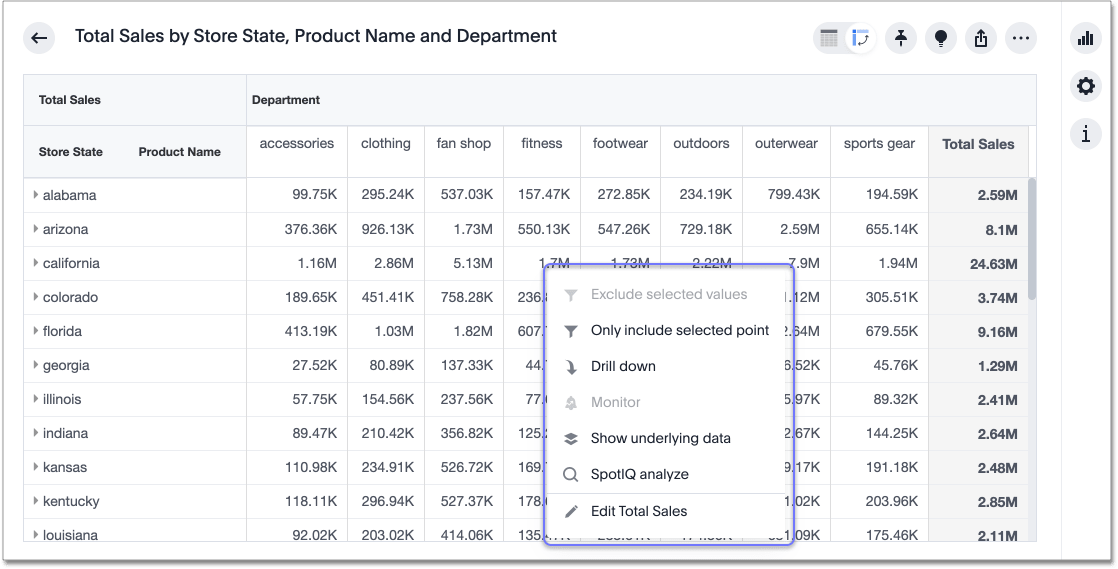
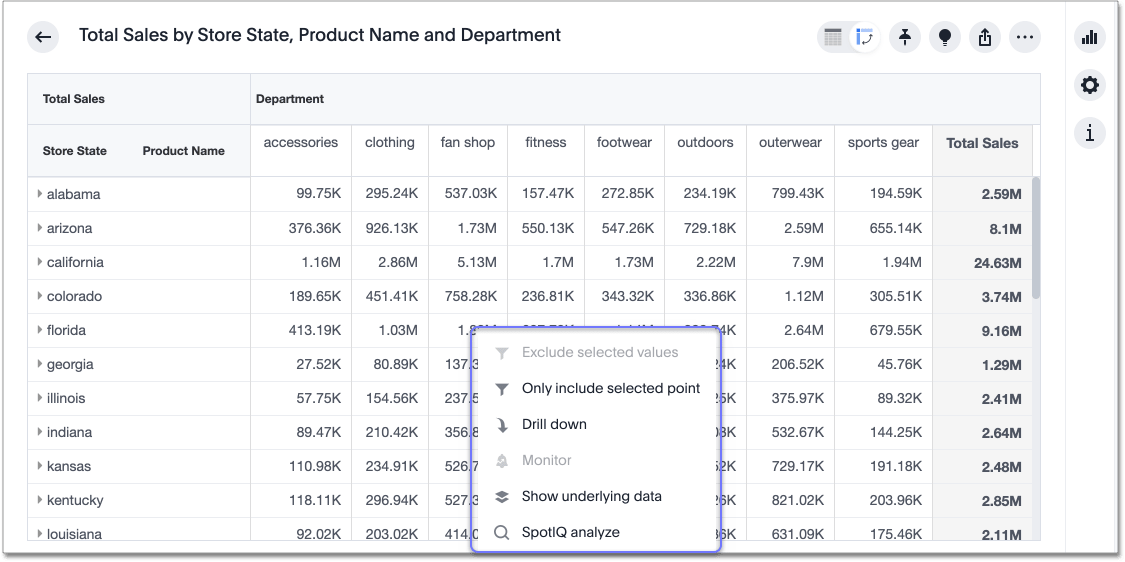
SCAL-85549 review by arpit

diff --git a/_complex-search/about-pivoting-a-table.md b/_complex-search/about-pivoting-a-table.md
@@ -1,6 +1,6 @@
 ---
 title: [Pivot table]
-last_updated: 5/20/2021
+last_updated: 5/21/2021
 summary: "A pivot table is a chart type."
 sidebar: mydoc_sidebar
 permalink: /:collection/:path.html
@@ -17,7 +17,7 @@ If you right-click a row or column heading, the system displays a contextual men
 
 ![Sort by a row heading]({{ site.baseurl }}/images/charts-pivot-table-sort.png "Sort by a row heading")
 
-If you right-click a table cell, the system displays a contextual menu, allowing you to **exclude** or **include** values, [drill down]({{ site.baseurl }}/complex-search/drill-down.html), **show underlying data**, **SpotIQ analyze**, or **edit** the measure column. When you click **Edit [measure column]**, the **Edit** menu for the column opens, allowing you to edit the number and conditional formatting.
+If you right-click a table cell, the system displays a contextual menu, allowing you to **exclude** or **include** values, [drill down]({{ site.baseurl }}/complex-search/drill-down.html), **show underlying data**, or **SpotIQ analyze**.
 
 ![Pivot table cell menu]({{ site.baseurl }}/images/charts-pivot-table-cell-new.png "Pivot table cell menu")
 
@@ -64,7 +64,7 @@ others within the table.
 To turn on the heatmap, click the **edit chart configuration** ![]({{ site.baseurl }}/images/icon-gear-10px.png){: .inline} icon, and click **settings** at the bottom of the chart configuration panel. Select **heatmap mode**.
 
 ## Number and conditional formatting
-You can perform conditional and number formatting on pivot tables. Both these features work the same way they work for regular ThoughtSpot tables. Select **Edit chart configuration** ![chart config icon]({{ site.basuerl }}/images/icon-gear-10px.png "chart config icon"){: .inline}, and click on the attribute measure you would like to add number or conditional formatting to. Note that attributes only support conditional formatting, not number formatting. Refer to [Apply conditional formatting]({{ site.baseurl }}/end-user/search/apply-conditional-formatting.html#table) and [Number formatting]({{ site.baseurl }}/end-user/search/about-tables.html#number-formatting) for more information.
+You can perform conditional and number formatting on pivot tables. Both these features work the same way they work for regular ThoughtSpot tables. Select **Edit chart configuration** ![chart config icon]({{ site.basuerl }}/images/icon-gear-10px.png "chart config icon"){: .inline}, and click on the measure you would like to add number or conditional formatting to. Refer to [Apply conditional formatting]({{ site.baseurl }}/end-user/search/apply-conditional-formatting.html#table) and [Number formatting]({{ site.baseurl }}/end-user/search/about-tables.html#number-formatting) for more information.
 
 ## Pivot table limitations
 

diff --git a/_end-user/search/apply-conditional-formatting.md b/_end-user/search/apply-conditional-formatting.md
@@ -22,7 +22,7 @@ You can add visual cues for KPIs (Key Performance Indicators) or threshold metri
 
 You can apply conditional formatting to both table cells and column summaries. You can specify a background color, font color, and/ or font style: bold, italics, underlined, or strikethrough. You can create conditional formatting rules for both measures and attributes.
 
-{% include note.html content="You can only apply conditional formatting to numbers and strings. For example, you can apply conditional formatting to a <code>month of year</code> column, with values such as <code>January</code>, but not to date column where dates are in the format <code>1 Jan 2021</code>." %}
+{% include note.html content="You can only apply conditional formatting to numbers and strings. For example, you can apply conditional formatting to a <code>month of year</code> column, with values such as <code>January</code>, but not to date column where dates are in the format <code>1 Jan 2021</code>. For pivot tables, you can only apply conditional formatting to measure, not attributes." %}
 
 If you create multiple conditional formatting rules for one measure or attribute, the first rule you create overrides the others, if there is a conflict. To change which rule overrides the others, simply drag and drop the rule to the top of the list of conditional formatting rules.
 

diff --git a/_includes/content/new-features-cloud-release.md b/_includes/content/new-features-cloud-release.md
@@ -14,7 +14,7 @@ The latest release of ThoughtSpot Cloud contains several new and enhanced featur
 
 <dlentry id="pivot-tables">
 <dt>Conditional formatting for pivot tables</dt>
-<dd>You can now perform conditional formatting on attributes and measures in pivot tables. Refer to <a href="{{ site.baseurl }}/end-user/search/apply-conditional-formatting.html#table">Apply conditional formatting</a> and <a href="{{ site.baseurl }}/complex-search/about-pivoting-a-table.html">Pivot tables</a>.</dd>
+<dd>You can now perform conditional formatting on measures in pivot tables. Refer to <a href="{{ site.baseurl }}/end-user/search/apply-conditional-formatting.html#table">Apply conditional formatting</a> and <a href="{{ site.baseurl }}/complex-search/about-pivoting-a-table.html">Pivot tables</a>.</dd>
 </dlentry>
 
 </dl>
